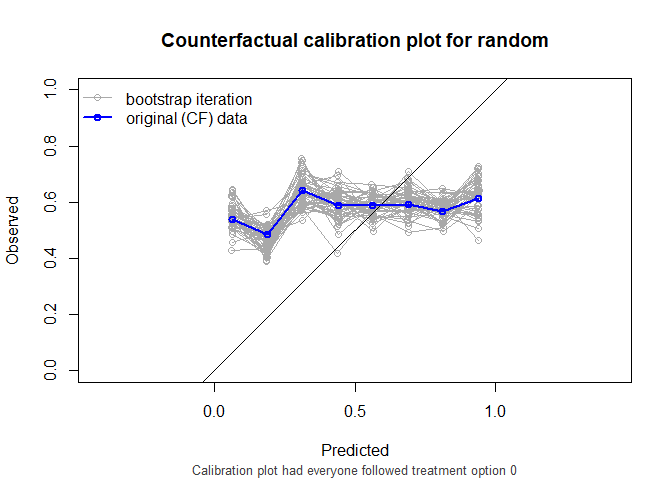
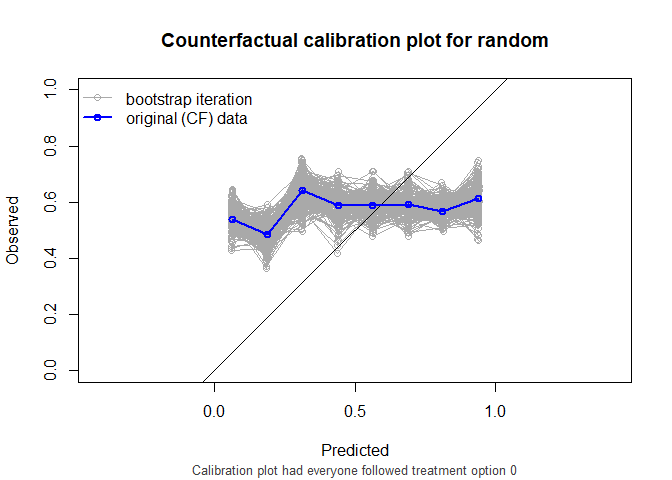
bootstrap with 200 iter

Changed region(s): [[0.3438, 0.3438, 0.7188, 0.5625]]

diff --git a/README.md b/README.md
@@ -161,7 +161,7 @@ CFscore(
   outcome_formula = Y ~ 1,
   treatment_formula = A ~ L, 
   treatment_of_interest = 0,
-  bootstrap = 50,
+  bootstrap = 200,
   bootstrap_progress = FALSE,
   stable_iptw = TRUE,
   quiet = TRUE
@@ -171,25 +171,25 @@ CFscore(
 #> 
 #>         model   auc lower upper
 #>    null model 0.500 0.500 0.500
-#>        random 0.519 0.481 0.569
-#>   naive model 0.752 0.717 0.786
-#>  causal model 0.752 0.717 0.786
+#>        random 0.519 0.486 0.557
+#>   naive model 0.752 0.722 0.785
+#>  causal model 0.752 0.722 0.785
 #> 
 #> brier
 #> 
 #>         model brier lower upper
-#>    null model 0.244 0.237 0.248
-#>        random 0.319 0.296 0.341
-#>   naive model 0.208 0.194 0.223
+#>    null model 0.244 0.238 0.248
+#>        random 0.319 0.300 0.338
+#>   naive model 0.208 0.195 0.221
 #>  causal model 0.198 0.189 0.208
 #> 
 #> oeratio
 #> 
 #>         model oeratio lower upper
-#>    null model    1.00 0.957  1.07
-#>        random    1.17 1.114  1.26
-#>   naive model    1.21 1.159  1.29
-#>  causal model    1.01 0.968  1.08
+#>    null model    1.00 0.948  1.06
+#>        random    1.17 1.107  1.24
+#>   naive model    1.21 1.147  1.28
+#>  causal model    1.01 0.958  1.07
 ```
 
 <img src="man/figures/README-unnamed-chunk-7-1.png" width="100%" /><img src="man/figures/README-unnamed-chunk-7-2.png" width="100%" /><img src="man/figures/README-unnamed-chunk-7-3.png" width="100%" /><img src="man/figures/README-unnamed-chunk-7-4.png" width="100%" /><img src="man/figures/README-unnamed-chunk-7-5.png" width="100%" />
